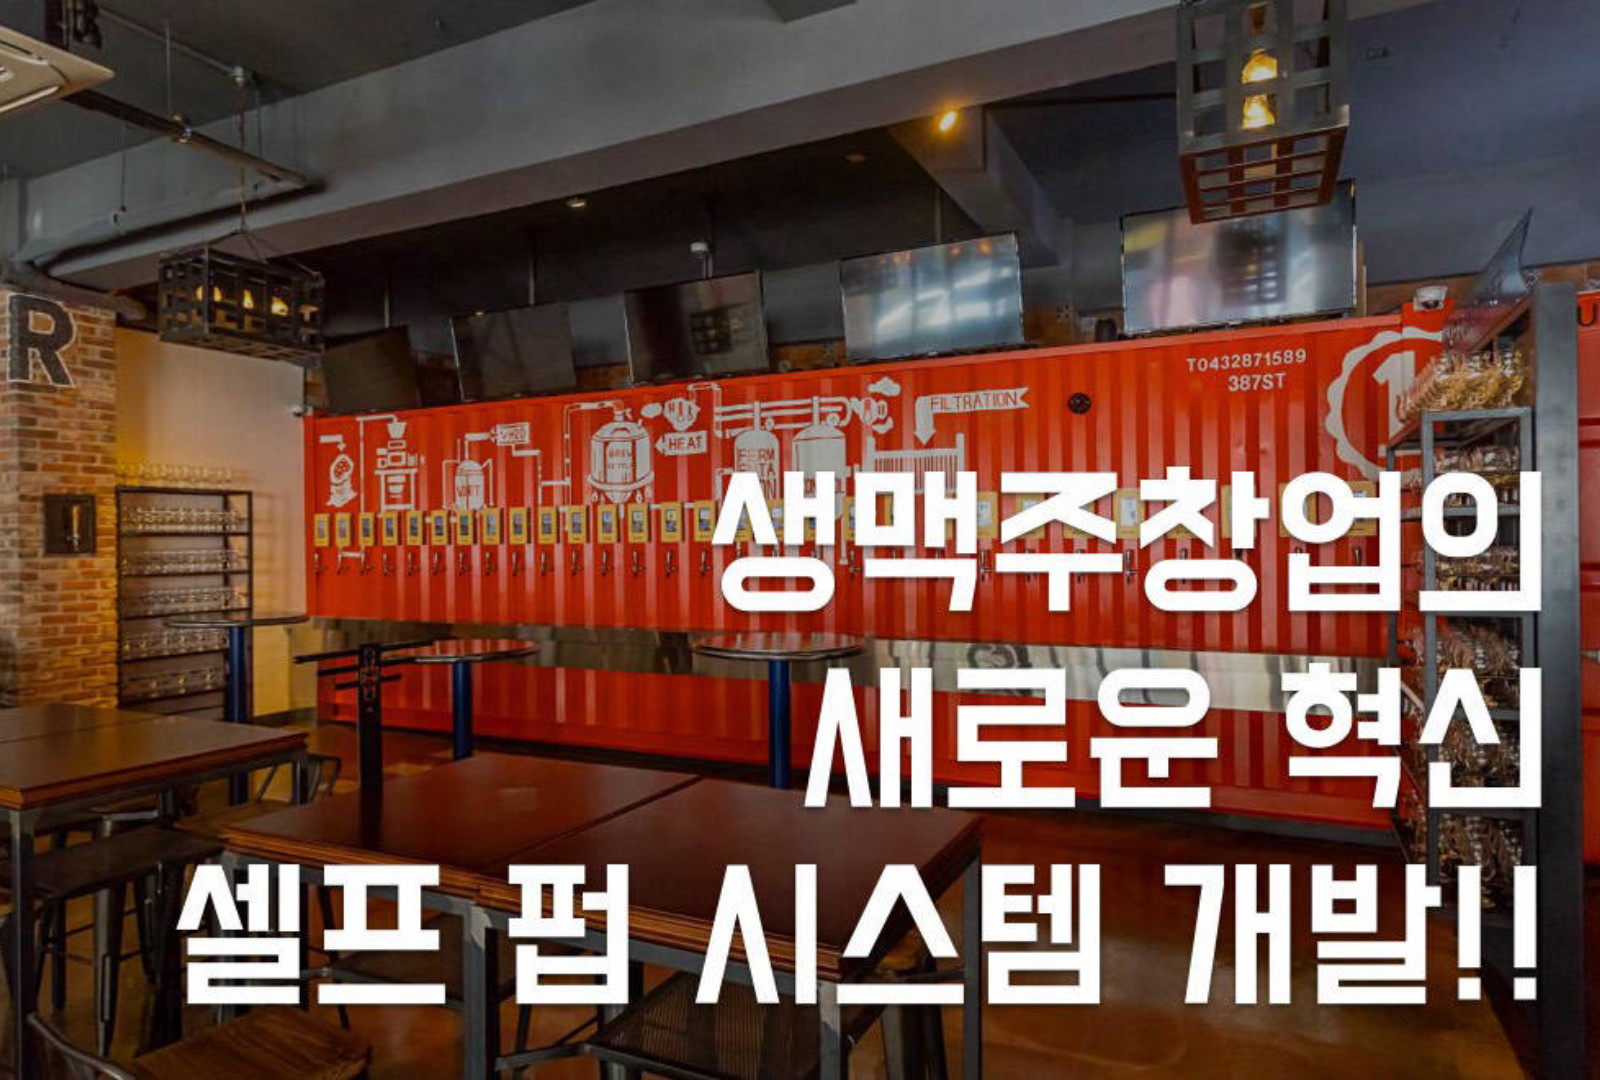
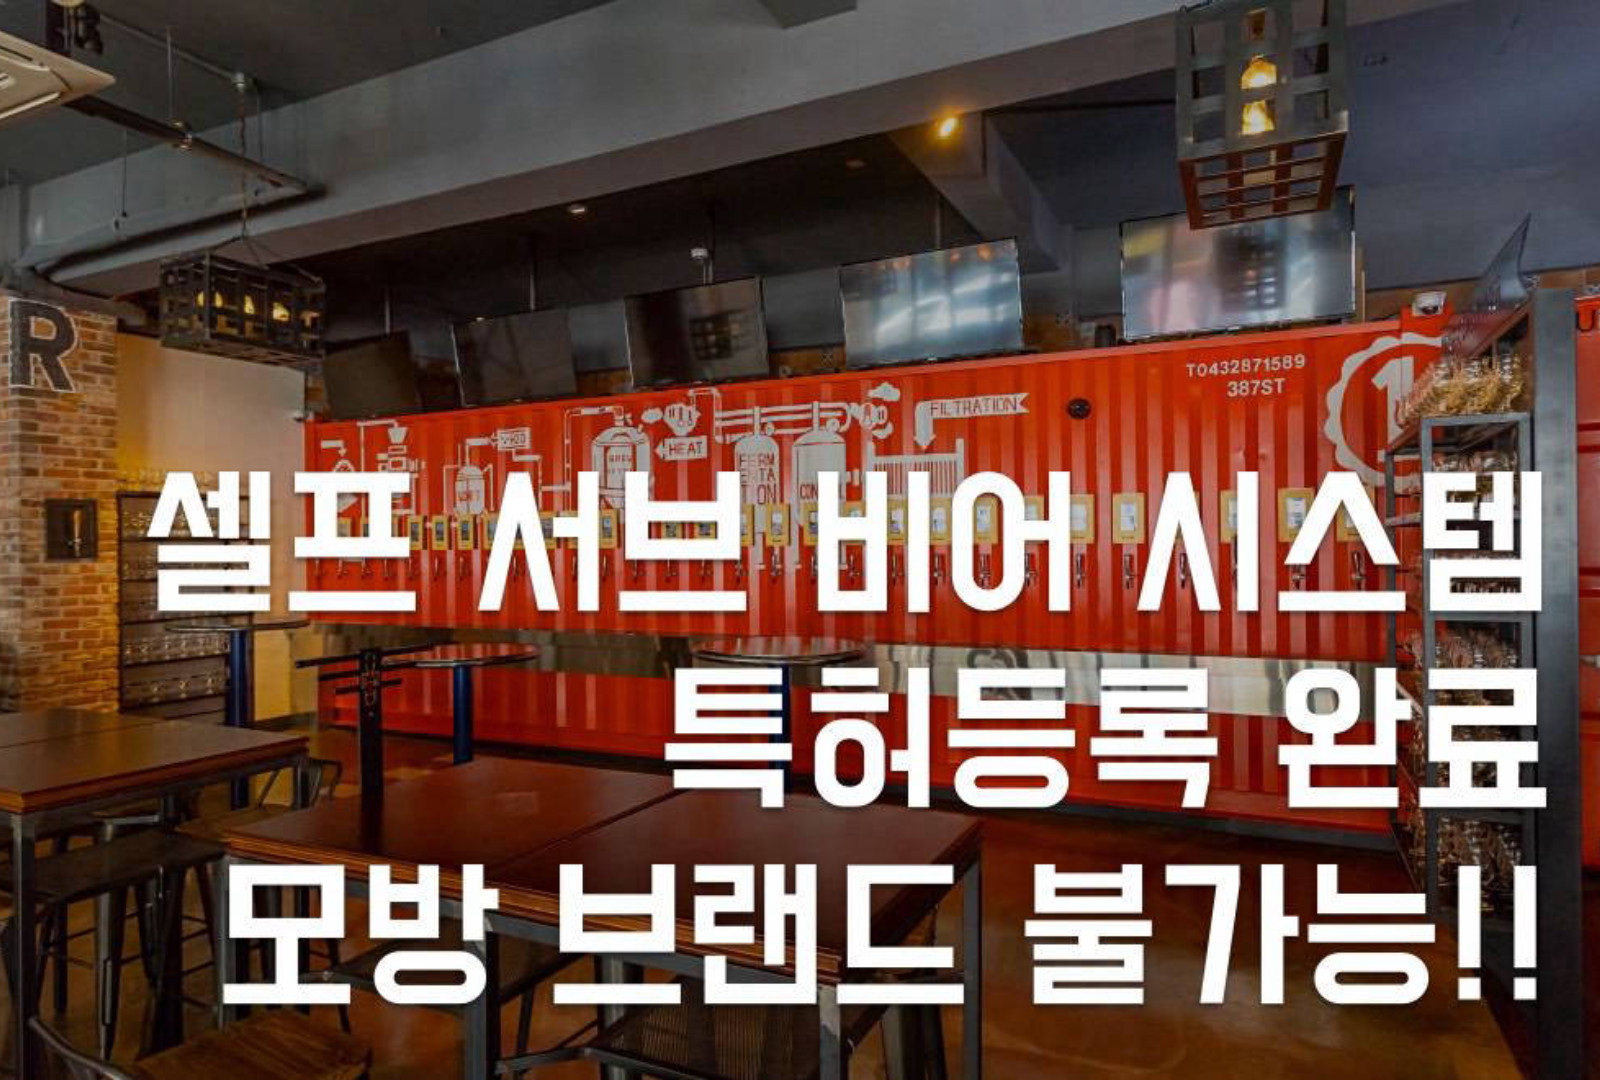
6.15

diff --git a/index.html b/index.html
@@ -104,29 +104,24 @@ src="https://www.facebook.com/tr?id=334374096729986&ev=PageView&noscript=1"
             <ul>
                 <li>
                     
-                    <img src="assets/images/1-1-1600x1080.jpg" alt="title 1" title="title 1"> text 1
+                    <img src="assets/images/4-1-1600x1080.jpg" alt="title 1" title="title 1"> text 1
                 </li><li>
                     
-                    <img src="assets/images/2-1-1600x1080.jpg" alt="title 3" title="title 3"> text 3
+                    <img src="assets/images/1-1600x1080.jpg" alt="title 3" title="title 3"> text 3
                 </li><li>
                     
                     <img src="assets/images/3-1-1600x1080.jpg" alt="title 2" title="title 2"> text 2
-                </li><li>
-                    
-                    <img src="assets/images/4-1600x1080.jpg" alt="title 2" title="title 2"> text 2
                 </li>
             </ul>
         </div>
         <div class="ws_bullets">
             <div>
                 <a href="#" title="">
-                    <span><img alt="slide1" src="assets/images/1-1-85x48.png"></span>
+                    <span><img alt="slide1" src="assets/images/4-85x48.png"></span>
                 </a><a href="#" title="">
-                    <span><img alt="slide1" src="assets/images/2-1-85x48.png"></span>
+                    <span><img alt="slide1" src="assets/images/1-85x48.png"></span>
                 </a><a href="#" title="">
                     <span><img alt="slide1" src="assets/images/3-1-85x48.png"></span>
-                </a><a href="#" title="">
-                    <span><img alt="slide1" src="assets/images/4-1-85x48.png"></span>
                 </a>
             </div>
         </div>
@@ -165,12 +160,12 @@ src="https://www.facebook.com/tr?id=334374096729986&ev=PageView&noscript=1"
             </div>
             <div class="col-md-6 text-element">
                 <div class="text-content">
-                    <h2 class="mbr-title pt-2 mbr-fonts-style align-center display-2"><strong><em>다양한 생맥주를</em></strong><div><strong><em>셀프로 즐기자!!</em></strong></div></h2>
+                    <h2 class="mbr-title pt-2 mbr-fonts-style align-center display-2"><strong><em>다양한 생맥주를</em></strong><br><strong><em>원하는 대로<br></em></strong><div><strong><em>골라 마시자!</em></strong></div></h2>
                     <div class="underline align-center">
                          <div class="line"></div>
                     </div>
                     <div class="mbr-section-text">
-                        <p class="mbr-text pt-3 mbr-light mbr-fonts-style align-center display-5">최소 20 ~ 최대 200가지 <br>수제&amp;수입 생맥주를<br><strong><em>셀프로 즐긴다</em></strong><br></p>
+                        <p class="mbr-text pt-3 mbr-light mbr-fonts-style align-center display-5">최소 20 ~ 최대 200가지의<br>생맥주 / 와인을<br><strong><em>취향대로!</em></strong><br></p>
                     </div>
                     
                 </div>
@@ -193,12 +188,12 @@ src="https://www.facebook.com/tr?id=334374096729986&ev=PageView&noscript=1"
             </div>
             <div class="col-md-6 text-element">
                 <div class="text-content">
-                    <h2 class="mbr-title pt-2 mbr-fonts-style align-center display-2"><strong><em>인력걱정 끝~</em></strong><div><strong><em>인건비 절약!!</em></strong></div></h2>
+                    <h2 class="mbr-title pt-2 mbr-fonts-style align-center display-2"><strong><em>인건비 걱정?</em></strong><div><strong><em>문제없다!</em></strong></div></h2>
                     <div class="underline align-center">
                          <div class="line"></div>
                     </div>
                     <div class="mbr-section-text">
-                        <p class="mbr-text pt-3 mbr-light mbr-fonts-style align-center display-5"><strong><em>50평 기준 운영인원 단 2명 </em></strong><br>인건비 걱정 끝!!<br></p>
+                        <p class="mbr-text pt-3 mbr-light mbr-fonts-style align-center display-5"><strong><em>50평 기준 운영인원 단 2명 </em></strong><br>최저시급 만원시대가 와도<br>문제없다!</p>
                     </div>
                     
                 </div>
@@ -216,17 +211,17 @@ src="https://www.facebook.com/tr?id=334374096729986&ev=PageView&noscript=1"
         <div class="row main align-items-center">
             <div class="col-md-6 image-element align-self-stretch">
                 <div class="img-wrap" style="width: 80%; height: 80%;">
-                    <img src="assets/images/batch-9-1000x666.jpg" alt="" title="">
+                    <img src="assets/images/batch-15-1000x666.jpg" alt="" title="">
                 </div>
             </div>
             <div class="col-md-6 text-element">
                 <div class="text-content">
-                    <h2 class="mbr-title pt-2 mbr-fonts-style align-center display-2"><strong><em>&nbsp; 특허등록 완료</em></strong><div><strong><em>모방 브랜드 불가!!</em></strong></div></h2>
+                    <h2 class="mbr-title pt-2 mbr-fonts-style align-center display-2"><strong><em>&nbsp; 셀프 서브 비어</em></strong><br><strong><em>시스템</em></strong><br><strong><em>특허등록 완료!!</em></strong></h2>
                     <div class="underline align-center">
                          <div class="line"></div>
                     </div>
                     <div class="mbr-section-text">
-                        <p class="mbr-text pt-3 mbr-light mbr-fonts-style align-center display-5">셀프 펍 시스템 특허등록 완료<br>등록번호 10-1511293<br><strong><em>모방 브랜드 불가능!!</em></strong><br></p>
+                        <p class="mbr-text pt-3 mbr-light mbr-fonts-style align-center display-5">특허등록 완료로<br><strong><em>모방 브랜드 불가능!!</em></strong></p>
                     </div>
                     
                 </div>
@@ -333,12 +328,12 @@ src="https://www.facebook.com/tr?id=334374096729986&ev=PageView&noscript=1"
             </div>
             <div class="col-md-6 text-element">
                 <div class="text-content">
-                    <h2 class="mbr-title pt-2 mbr-fonts-style align-center display-2"><strong><em>&nbsp;조리 간편한</em></strong><br><strong><em>메뉴구성</em></strong></h2>
+                    <h2 class="mbr-title pt-2 mbr-fonts-style align-center display-2"><strong><em>&nbsp;High &amp; Easy</em></strong><br><strong><em>메 뉴</em></strong></h2>
                     <div class="underline align-center">
                          <div class="line"></div>
                     </div>
                     <div class="mbr-section-text">
-                        <p class="mbr-text pt-3 mbr-light mbr-fonts-style align-center display-5">고퀄리티의 안주를 제공하되<br><strong><em>조리는 간편한 다양한 안주구성</em></strong><br></p>
+                        <p class="mbr-text pt-3 mbr-light mbr-fonts-style align-center display-5"><strong><em>간단한 조리법으로 구성된</em></strong><br>고급의 메뉴들</p>
                     </div>
                     
                 </div>
@@ -372,12 +367,12 @@ src="https://www.facebook.com/tr?id=334374096729986&ev=PageView&noscript=1"
     <div class="container-fluid">   
         <div class="row content-row align-items-center">
             <div class="col-lg-6 text-content">
-                <h2 class="mbr-title pt-2 mbr-fonts-style align-center mbr-black display-1"><strong>탭컨테이너 브랜드</strong><br><strong>영상보기!!</strong></h2>
+                <h2 class="mbr-title pt-2 mbr-fonts-style align-center mbr-black display-1"><strong>탭컨테이너 브랜드</strong><br><strong>영상보기</strong></h2>
                 <div class="underline align-center">
                     <div class="line"></div>
                 </div>
                 <div class="mbr-section-text">
-                    <p class="mbr-text pt-3 mbr-light mbr-fonts-style align-center display-2">셀프 펍 시스템<br>직접 영상으로 만나 보세요!</p>
+                    <p class="mbr-text pt-3 mbr-light mbr-fonts-style align-center display-2">셀프 서브 비어 시스템<br>직접 영상으로 만나 보세요!</p>
                 </div>
                 
             </div>
@@ -397,8 +392,8 @@ src="https://www.facebook.com/tr?id=334374096729986&ev=PageView&noscript=1"
     <div class="container-fluid">
         <div class="row">
             <div class="col-12 text-row col-md-6">
-                <h2 class="align-center pb-3 mbr-fonts-style display-2"><strong><em>셀프 펍 이용법</em></strong></h2>
-                <h3 class="mbr-section-subtitle align-center mbr-light pb-3 mbr-fonts-style display-5">혁신적인 셀프 펍 이용 방법</h3>
+                <h2 class="align-center pb-3 mbr-fonts-style display-2"><strong><em>셀프 서브 비어</em></strong><br><strong><em>시스템</em></strong></h2>
+                <h3 class="mbr-section-subtitle align-center mbr-light pb-3 mbr-fonts-style display-5">혁신적인 시스템 이용 방법</h3>
                 
             </div>
             <div class="card px-3 py-4 col-12 col-md-6 col-lg-4 col-xl-3">
@@ -572,7 +567,7 @@ src="https://www.facebook.com/tr?id=334374096729986&ev=PageView&noscript=1"
             </div>
             <div class="col-md-6 text-element">
                 <div class="text-content">
-                    <h2 class="mbr-title pt-2 mbr-fonts-style align-left mbr-white display-5"><strong><em>바베큐 치즈</em></strong><div><strong><em>크림 토마토</em></strong></div></h2>
+                    <h2 class="mbr-title pt-2 mbr-fonts-style align-left mbr-white display-5"><strong><em>바비큐 크림</em></strong><div><strong><em>치즈 토마토</em></strong></div></h2>
                     
                     <div class="mbr-section-text">
                         
@@ -598,7 +593,7 @@ src="https://www.facebook.com/tr?id=334374096729986&ev=PageView&noscript=1"
             </div>
             <div class="col-md-6 text-element">
                 <div class="text-content">
-                    <h2 class="mbr-title pt-2 mbr-fonts-style align-left mbr-white display-5"><strong><em>후라이드 치킨</em></strong><div><strong><em>감자튀김</em></strong></div></h2>
+                    <h2 class="mbr-title pt-2 mbr-fonts-style align-left mbr-white display-5"><strong><em>후라이드 치킨</em></strong><div><strong><em>with 감자튀김</em></strong></div></h2>
                     
                     <div class="mbr-section-text">
                         
@@ -624,7 +619,7 @@ src="https://www.facebook.com/tr?id=334374096729986&ev=PageView&noscript=1"
             </div>
             <div class="col-md-6 text-element">
                 <div class="text-content">
-                    <h2 class="mbr-title pt-2 mbr-fonts-style align-left mbr-white display-5"><strong><em>소시지 감자튀김</em></strong></h2>
+                    <h2 class="mbr-title pt-2 mbr-fonts-style align-left mbr-white display-5"><strong><em>버라이어티 소시지</em></strong></h2>
                     
                     <div class="mbr-section-text">
                         
@@ -671,12 +666,12 @@ src="https://www.facebook.com/tr?id=334374096729986&ev=PageView&noscript=1"
         <div class="row main align-items-center">
             <div class="col-md-6 image-element align-self-stretch">
                 <div class="img-wrap" style="width: 80%; height: 80%;">
-                    <img src="assets/images/batch-24-1000x666.jpg" alt="" title="">
+                    <img src="assets/images/batch-01i1258-1000x666.jpg" alt="" title="">
                 </div>
             </div>
             <div class="col-md-6 text-element">
                 <div class="text-content">
-                    <h2 class="mbr-title pt-2 mbr-fonts-style align-left mbr-white display-5"><strong><em>베이컨양파</em></strong><div><strong><em>모짜렐라 플라쿠헨&nbsp;</em></strong></div></h2>
+                    <h2 class="mbr-title pt-2 mbr-fonts-style align-left mbr-white display-5"><strong><em>애플 시나몬</em></strong><br><strong><em>플람쿠헨</em></strong></h2>
                     
                     <div class="mbr-section-text">
                         

diff --git a/db.html b/db.html
@@ -118,7 +118,7 @@ src="https://www.facebook.com/tr?id=334374096729986&ev=PageView&noscript=1"
             <div class="form-1 col-md-8 col-sm-12" data-form-type="formoid">
                 <h1 class="mbr-fonts-style mbr-section-heading display-2"><strong><em>창업문의 신청</em></strong></h1>
                 <div data-form-alert="" hidden="">감사합니다. 창업문의 신청이 접수되었습니다.</div>
[2 lines of base64/hex data omitted]
                     <div class="row input-main">
                         <div class="col-md-6 input-wrap" data-for="name">
                             <input type="text" class="field display-7" name="name" data-form-field="Name" placeholder="이름" required="" id="name-form2-1f">
